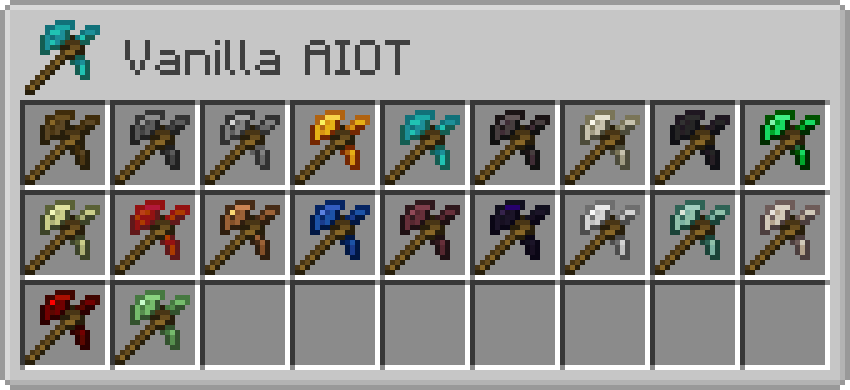
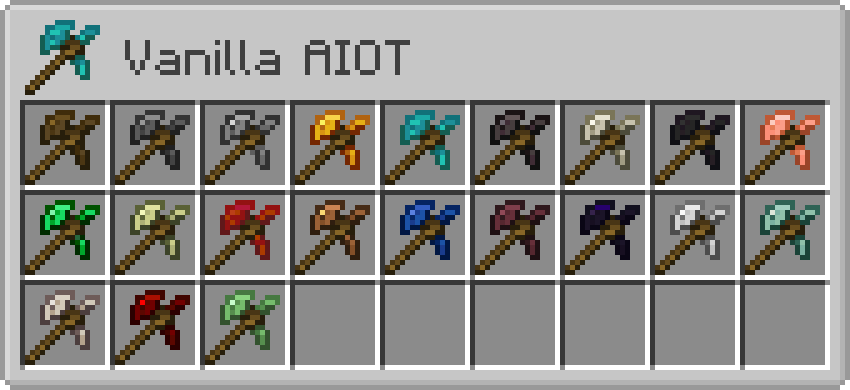
add copper

diff --git a/src/main/java/de/melanx/vanillaaiots/data/ConditionalRecipes.java b/src/main/java/de/melanx/vanillaaiots/data/ConditionalRecipes.java
@@ -24,6 +24,7 @@ public class ConditionalRecipes extends RecipeProviderBase implements CraftingEx
     protected void setup() {
         this.shapeless(AIOTRegistry.boneAiot, ModItems.boneSword, ModItems.bonePickaxe, ModItems.boneAxe, ModItems.boneShovel, ModItems.boneHoe);
         this.shapeless(AIOTRegistry.coalAiot, ModItems.coalSword, ModItems.coalPickaxe, ModItems.coalAxe, ModItems.coalShovel, ModItems.coalHoe);
+        this.shapeless(AIOTRegistry.copperAiot, ModItems.copperSword, ModItems.copperPickaxe, ModItems.copperAxe, ModItems.copperShovel, ModItems.copperHoe);
         this.shapeless(AIOTRegistry.emeraldAiot, ModItems.emeraldSword, ModItems.emeraldPickaxe, ModItems.emeraldAxe, ModItems.emeraldShovel, ModItems.emeraldHoe);
         this.shapeless(AIOTRegistry.enderAiot, ModItems.enderSword, ModItems.enderPickaxe, ModItems.enderAxe, ModItems.enderShovel, ModItems.enderHoe);
         this.shapeless(AIOTRegistry.fieryAiot, ModItems.fierySword, ModItems.fieryPickaxe, ModItems.fieryAxe, ModItems.fieryShovel, ModItems.fieryHoe);

diff --git a/src/main/java/de/melanx/vanillaaiots/items/AIOTRegistry.java b/src/main/java/de/melanx/vanillaaiots/items/AIOTRegistry.java
@@ -19,6 +19,7 @@ public class AIOTRegistry {
 
     public static final Item boneAiot = ToolsCompat.makeItem(0, -2.4F, ToolMaterials.BONE, new Item.Properties().tab(VanillaAIOTs.getInstance().tab));
     public static final Item coalAiot = ToolsCompat.makeItem(0, -2.4F, ToolMaterials.COAL, new Item.Properties().tab(VanillaAIOTs.getInstance().tab));
+    public static final Item copperAiot = ToolsCompat.makeItem(0, -2.4F, ToolMaterials.COPPER, new Item.Properties().tab(VanillaAIOTs.getInstance().tab));
     public static final Item emeraldAiot = ToolsCompat.makeItem(0, -2.4F, ToolMaterials.EMERALD, new Item.Properties().tab(VanillaAIOTs.getInstance().tab));
     public static final Item enderAiot = ToolsCompat.makeItem(0, -2.4F, ToolMaterials.ENDER, new Item.Properties().tab(VanillaAIOTs.getInstance().tab));
     public static final Item fieryAiot = ToolsCompat.makeItem(0, -2.4F, ToolMaterials.FIERY, new Item.Properties().tab(VanillaAIOTs.getInstance().tab));

diff --git a/src/main/java/de/melanx/vanillaaiots/data/AIOTTags.java b/src/main/java/de/melanx/vanillaaiots/data/AIOTTags.java
@@ -48,6 +48,7 @@ public class AIOTTags extends CommonTagsProviderBase {
 
                 case BONE -> this.item(ModTags.Items.BONE_TOOLS).add(item);
                 case COAL -> this.item(ModTags.Items.COAL_TOOLS).add(item);
+                case COPPER -> this.item(ModTags.Items.COPPER_TOOLS).add(item);
                 case EMERALD -> this.item(ModTags.Items.EMERALD_TOOLS).add(item);
                 case ENDER -> this.item(ModTags.Items.ENDER_TOOLS).add(item);
                 case FIERY -> this.item(ModTags.Items.FIERY_TOOLS).add(item);

diff --git a/src/main/java/de/melanx/vanillaaiots/tools/ToolMaterials.java b/src/main/java/de/melanx/vanillaaiots/tools/ToolMaterials.java
@@ -28,6 +28,7 @@ public enum ToolMaterials implements Tier {
 
     BONE("bone", () -> Ingredient.of(Tags.Items.BONES)),
     COAL("coal", () -> Ingredient.of(Items.COAL)),
+    COPPER("copper", () -> Ingredient.of(Tags.Items.INGOTS_COPPER)),
     EMERALD("emerald", () -> Ingredient.of(Tags.Items.GEMS_EMERALD)),
     ENDER("ender", () -> Ingredient.of(Tags.Items.ENDER_PEARLS)),
     FIERY("fiery", () -> Ingredient.of(Items.MAGMA_BLOCK)),

diff --git a/src/main/java/de/melanx/vanillaaiots/compat/ToolsCompat.java b/src/main/java/de/melanx/vanillaaiots/compat/ToolsCompat.java
@@ -27,6 +27,7 @@ public class ToolsCompat {
         return switch (tier) {
             case "bone" -> ToolMaterials.BONE;
             case "coal" -> ToolMaterials.COAL;
+            case "copper" -> ToolMaterials.COPPER;
             case "emerald" -> ToolMaterials.EMERALD;
             case "ender" -> ToolMaterials.ENDER;
             case "fiery" -> ToolMaterials.FIERY;
